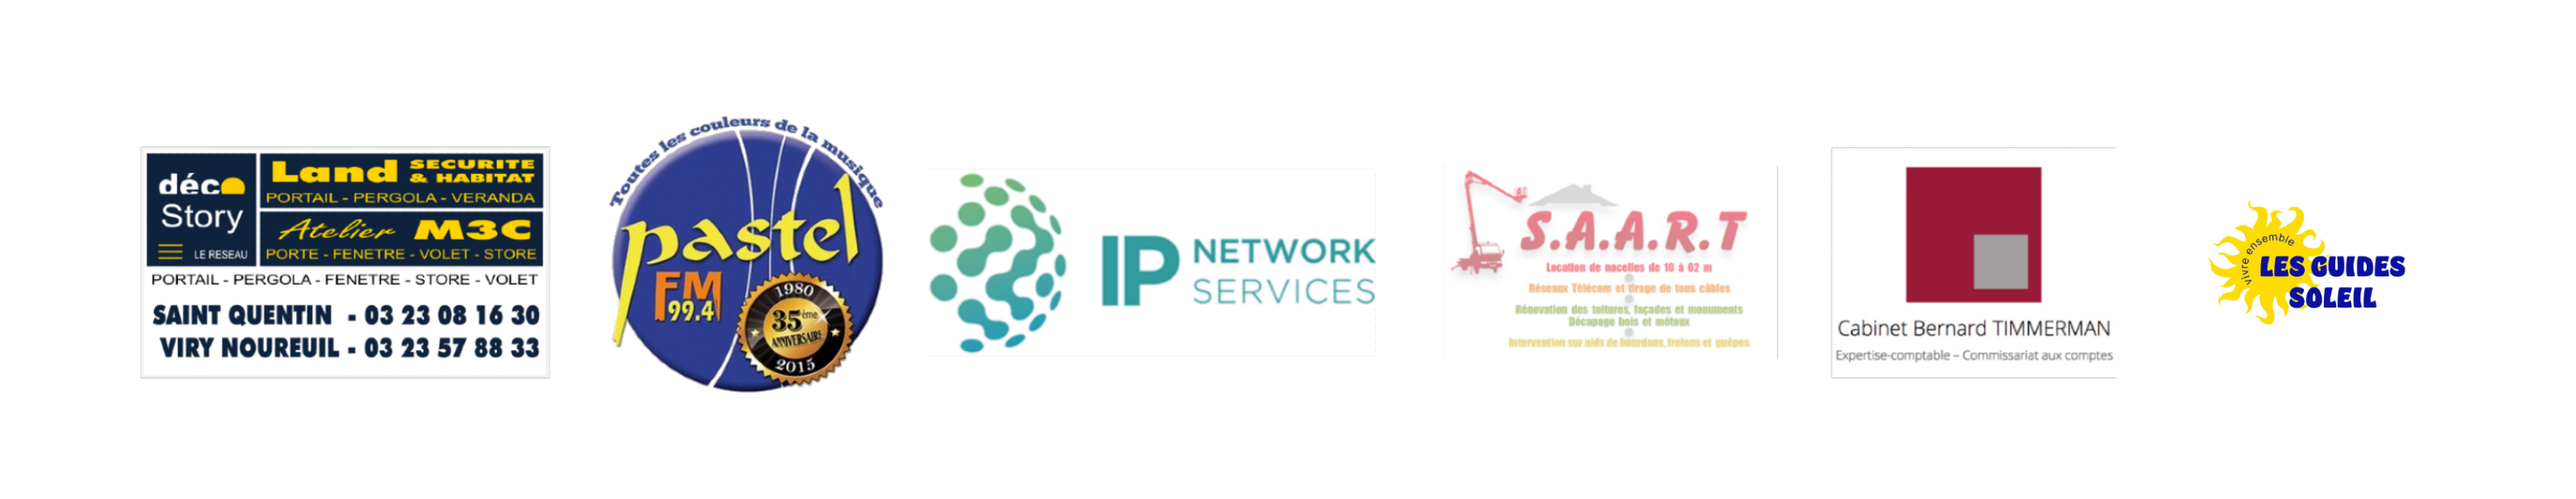
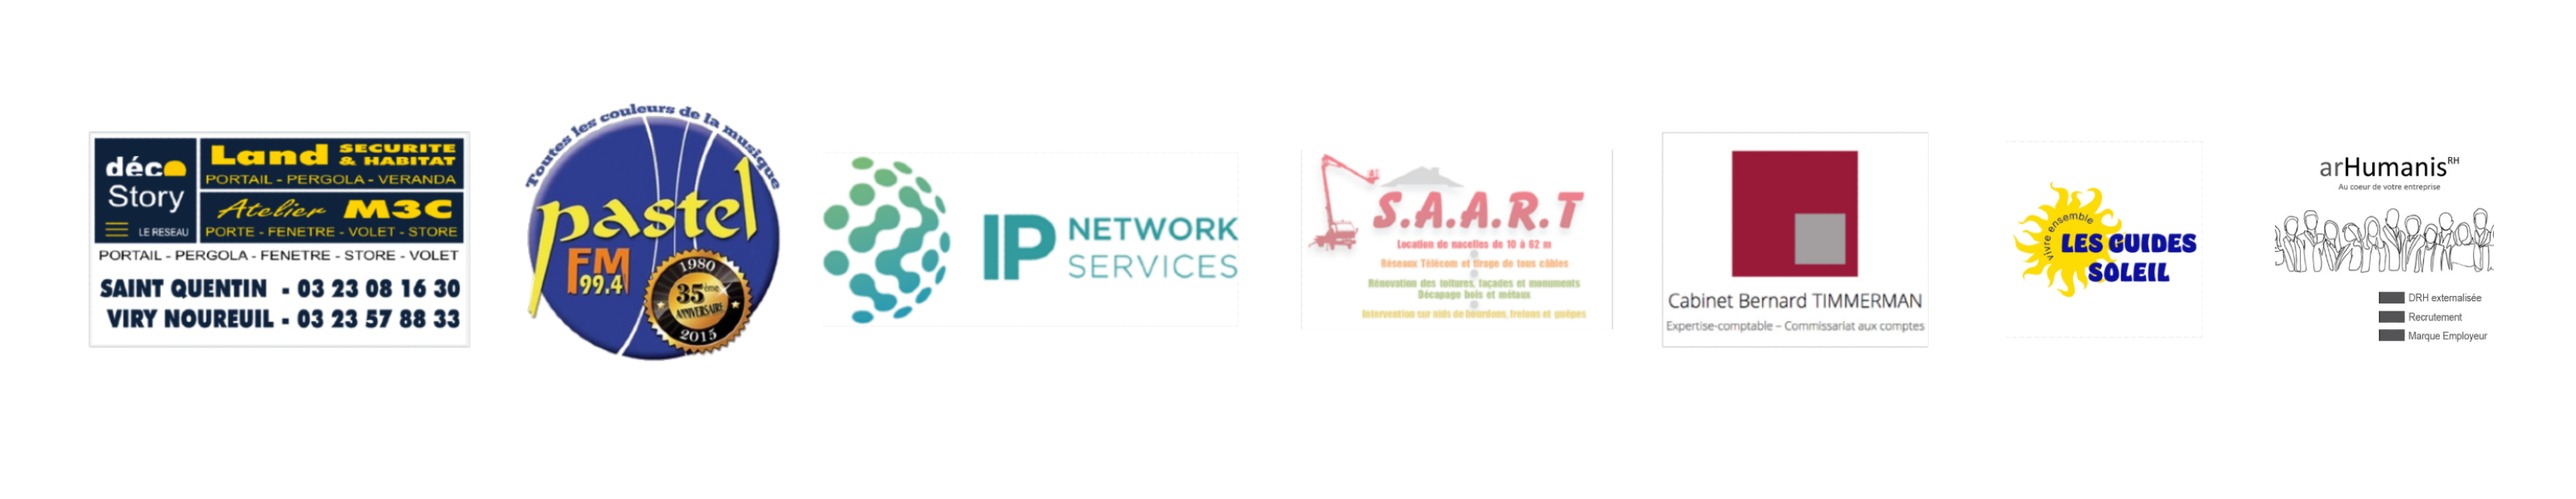
arh

Changed region(s): [[0.0312, 0.2145, 0.9688, 0.7968], [0.9062, 0.3065, 0.9688, 0.3984]]

diff --git a/sponsors.html b/sponsors.html
@@ -152,6 +152,34 @@
                 </div>
                 <div class="row">
                     <div class="col col-lg-3 align-self-center">
+                        <img src="images/sponsors/arh.png" class="rounded border"/>
+                    </div>
+                    <div class="col align-self-center">
+                        <h3>arHumanis RH</h3>
+                        <p>Tous les jours vous accompagnez vos salariés pour le développement de votre entreprise. Vous
+                            essayez toujours de bien faire et vous réfléchissez avant d'agir. Vous avez
+                            besoin d'attirer les candidats, fidéliser vos collaborateurs et organiser la gestion des
+                            ressources humaines. Pour vous sentir plus serein dans le développement en ayant une équipe
+                            enthousiaste et
+                            engagée pour tous vos projets.</p>
+                        <p>arHumanis vous accompagne dans vos missions externalisées sur le développement des Ressources
+                            Humaines.
+
+                            Nous avons à cœur d’associer Talents et entreprises humaines et donner du sens aux relations
+                            du travail pour créer la meilleur équipe, afin d'atteindre l'objectif : la réussite et la
+                            réalisation des projets de votre entreprise.
+
+                            Nous intervenons à toutes les étapes de votre projet dans l'entreprise : lors du recrutement
+                            des salariés, de leur intégration, tout au long de la vie des salariés dans l'entreprise et
+                            enfin dans la gestion collective des salariés.</p>
+                        <p>
+                            <span class="font-weight-bold">Lien : </span>
+                            <a href="https://www.linkedin.com/in/am%C3%A9lie-ravenaux-7635591b8/">Linkedin</a>
+                        </p>
+                    </div>
+                </div>
+                <div class="row">
+                    <div class="col col-lg-3 align-self-center">
                         <img src="images/sponsors/saart.png" class="rounded border"/>
                     </div>
                     <div class="col align-self-center">
@@ -288,8 +316,8 @@
                         </tr>
                         <tr>
                             <th scope="row">G</th>
-                            <td>400 €</td>
-                            <td>Libre</td>
+                            <td><a href="https://www.linkedin.com/in/am%C3%A9lie-ravenaux-7635591b8/">site</a></td>
+                            <td>arHumanis RH</td>
                         </tr>
                         <tr>
                             <th scope="row">F</th>

diff --git a/about-us.html b/about-us.html
@@ -93,6 +93,9 @@
         <div class="col">
             <img src="images/sponsors/gds.png">
         </div>
+        <div class="col">
+            <img src="images/sponsors/arh.png">
+        </div>
     </div>
       <section class="section section-lg bg-gray-1 bg-gray-1-decor">
         <div class="container">

diff --git a/medias.html b/medias.html
@@ -106,6 +106,9 @@
         <div class="col">
             <img src="images/sponsors/gds.png">
         </div>
+        <div class="col">
+            <img src="images/sponsors/arh.png">
+        </div>
     </div>
     <section class="section section-lg bg-gray-1 bg-gray-1-decor">
         <div class="container">

diff --git a/raid.html b/raid.html
@@ -106,6 +106,9 @@
         <div class="col">
             <img src="images/sponsors/gds.png">
         </div>
+        <div class="col">
+            <img src="images/sponsors/arh.png">
+        </div>
     </div>
     <section class="section section-lg bg-gray-1 bg-gray-1-decor">
         <div class="container">

diff --git a/index.html b/index.html
@@ -109,6 +109,9 @@
         <div class="col">
             <img src="images/sponsors/gds.png">
         </div>
+        <div class="col">
+            <img src="images/sponsors/arh.png">
+        </div>
     </div>
     <section class="section section-xl">
         <div class="container">
